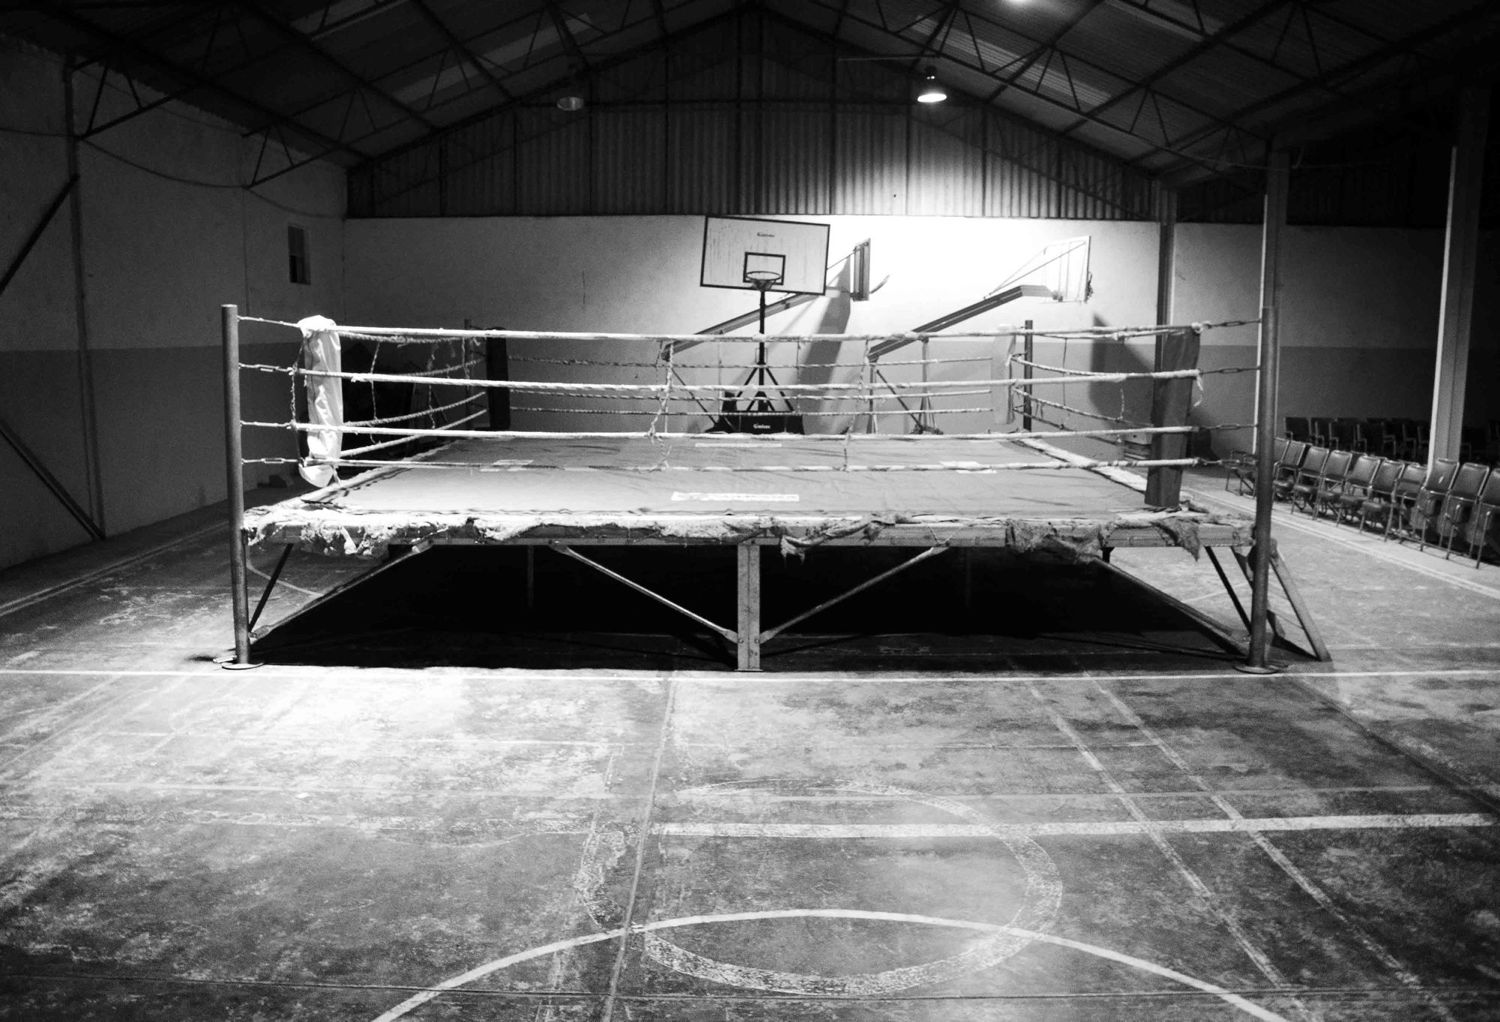
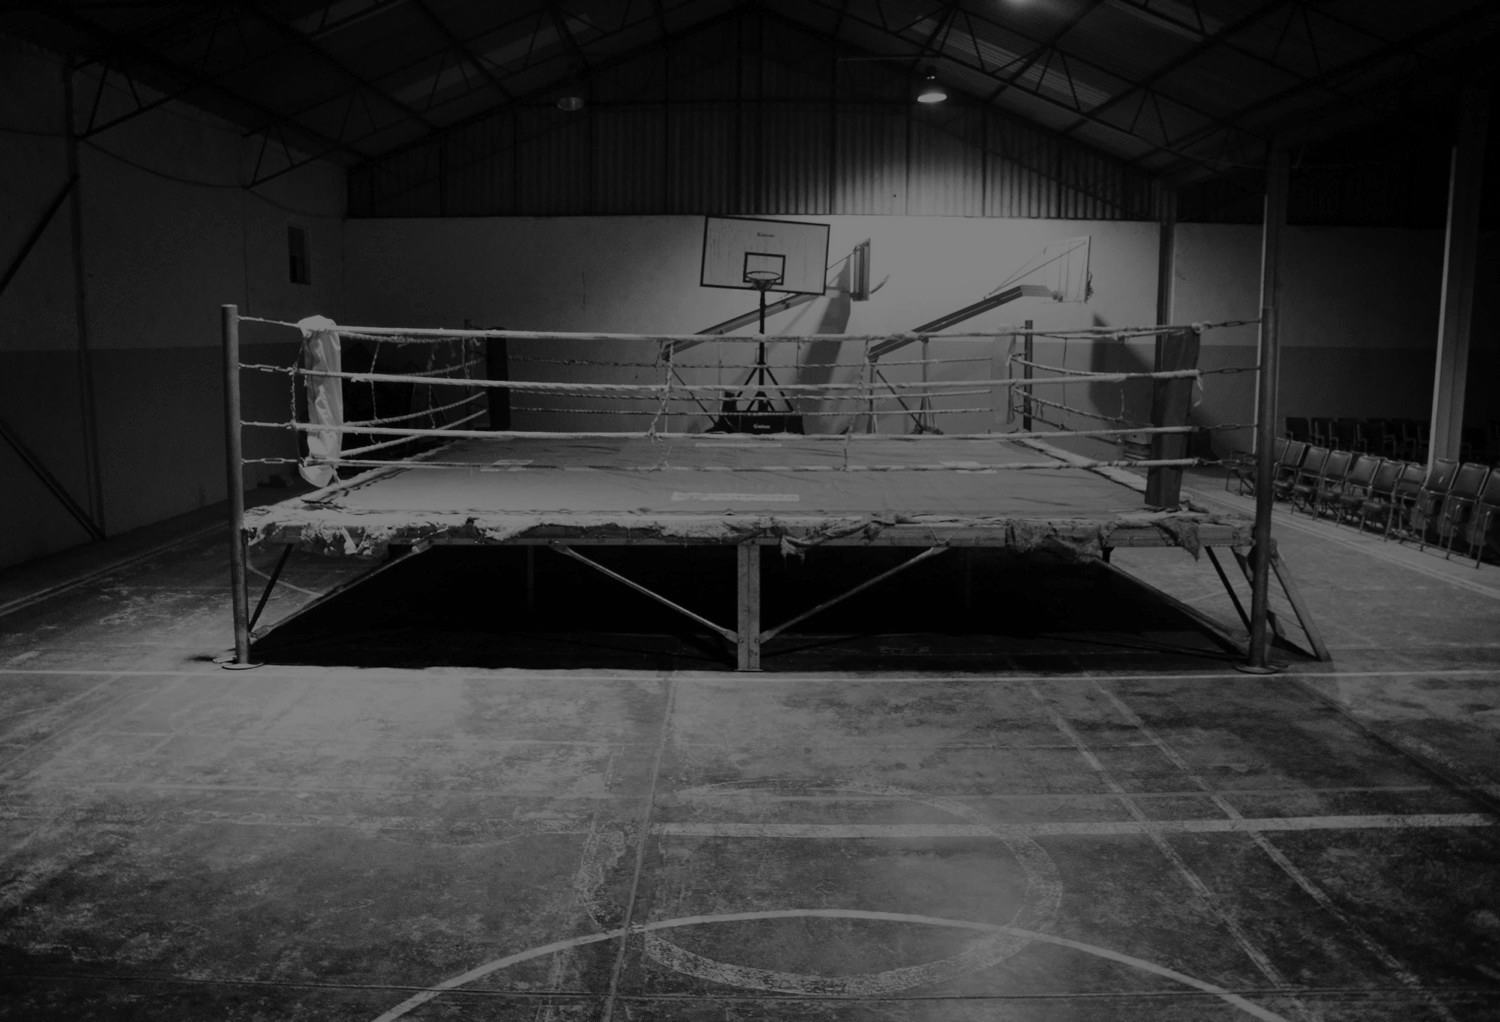
styling

diff --git a/src/styles/main.less b/src/styles/main.less
@@ -3,7 +3,7 @@
 @second-background: #aaa;
 @body-background: #EEE;
 @firm: blue;
-@inverse: #333;
+@inverse: #111;
 
 @rapper-background: #007F91;
 @position-background: #00535E;
